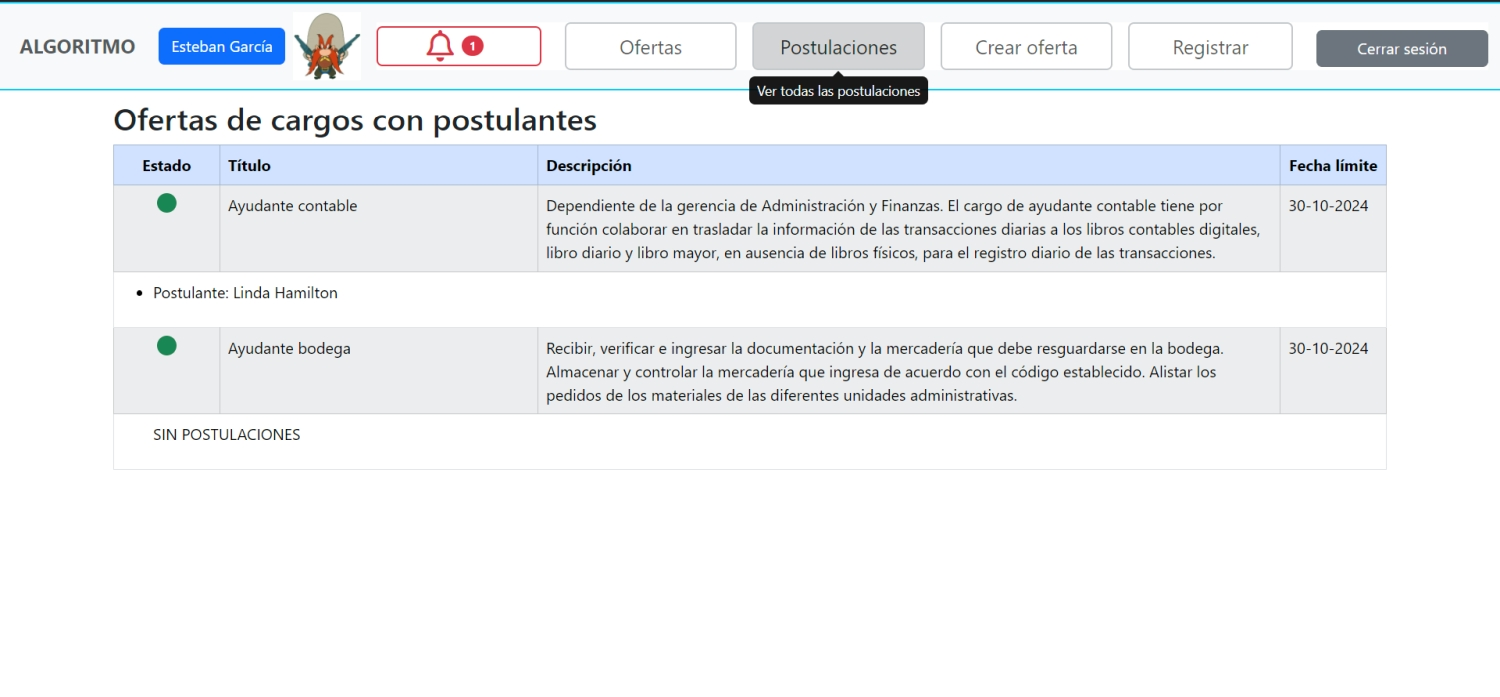
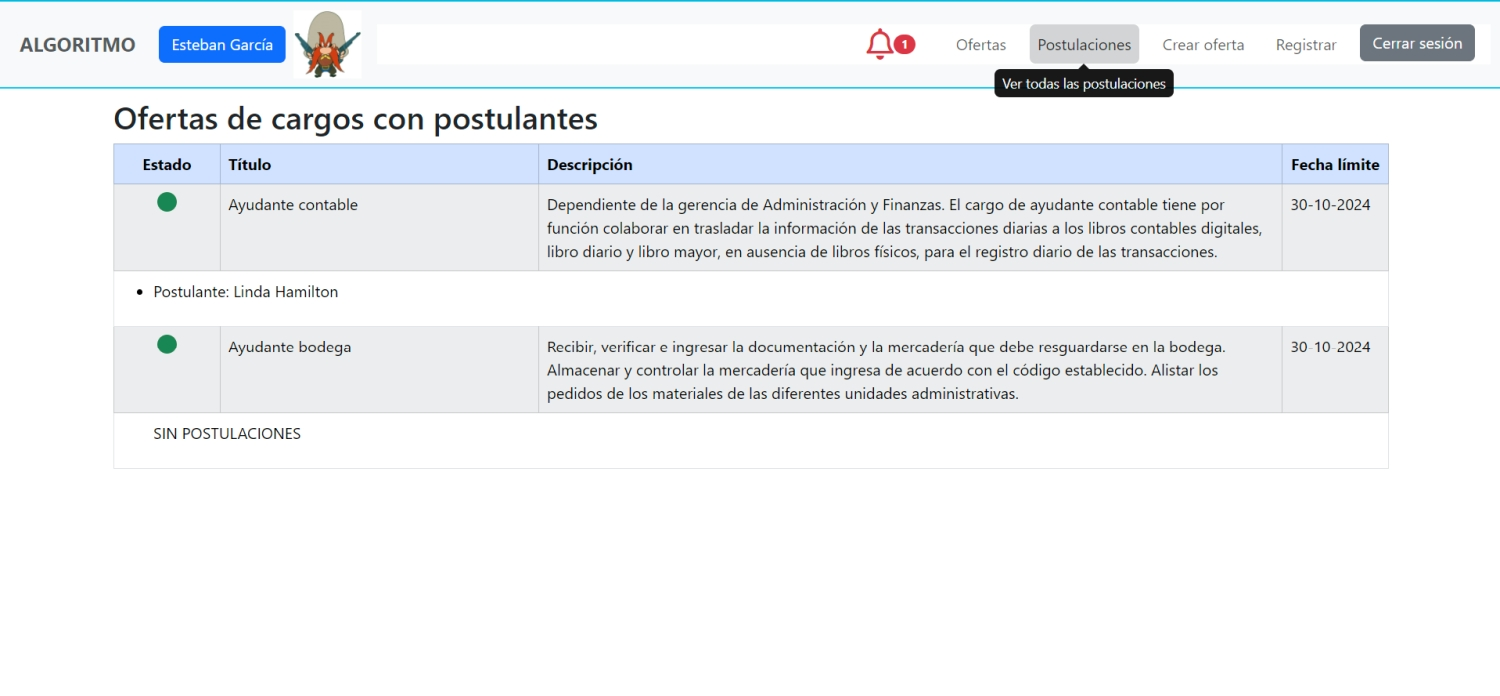
v3.5 - OK

diff --git a/app/assets/stylesheets/styles.css b/app/assets/stylesheets/styles.css
@@ -17,6 +17,14 @@ body {
   background-color: #ffffff !important;
 }
 
+.navbar-nav .nav-item,
+.btn {
+    display: flex;
+    align-items: center;
+    height: 100%;
+}
+
+
 .custom-btn-5 {
   height:        calc(2.25rem + 5px);
   padding-left:  calc(0.75rem + 5px);
